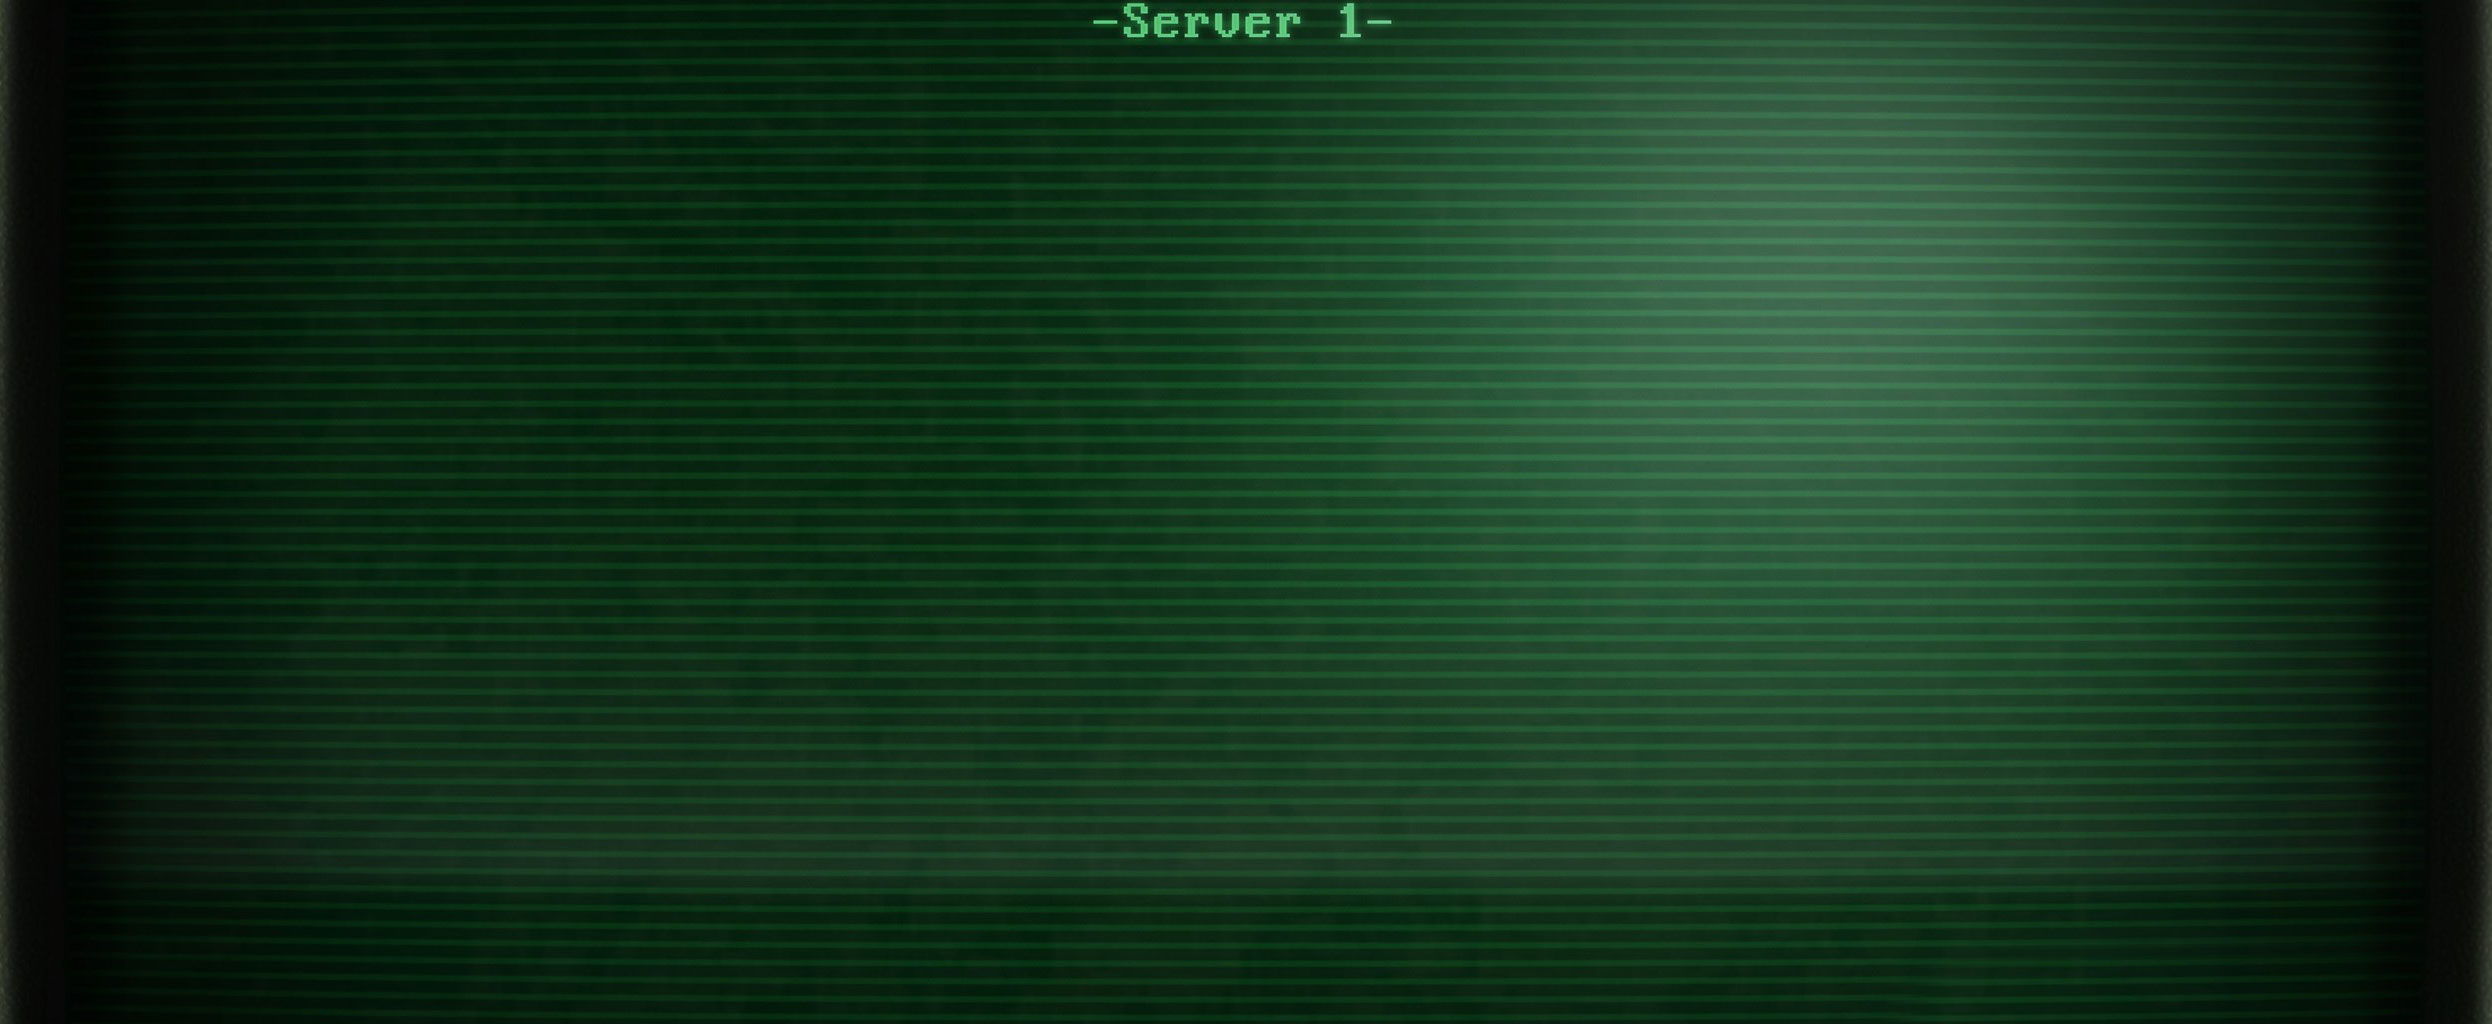
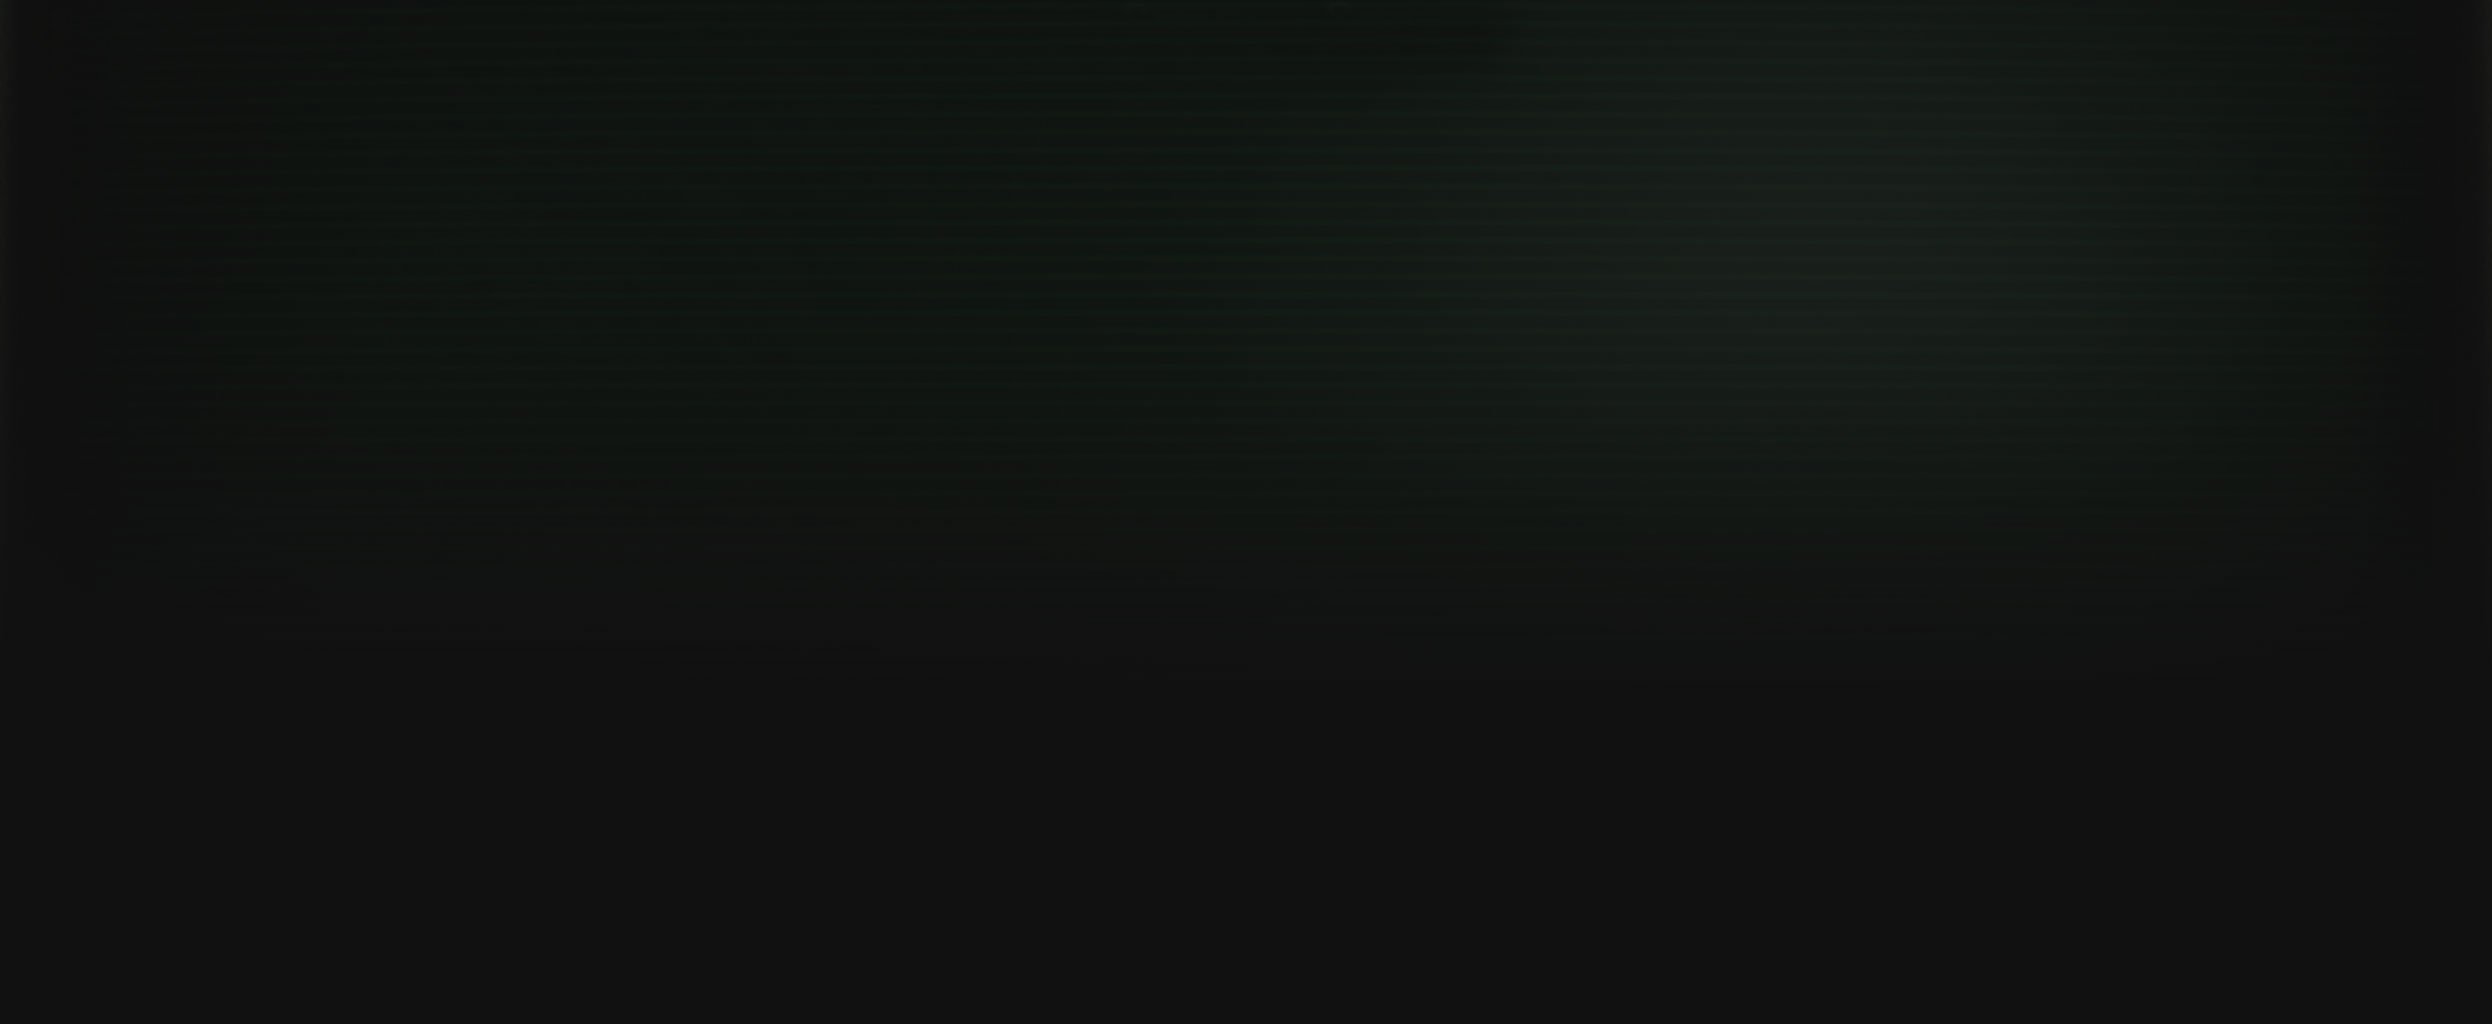
feat: add body background (Thursday, May 12, 2022 13:33:42)

diff --git a/cssMemSlider/style.css b/cssMemSlider/style.css
@@ -42,7 +42,9 @@ body {
    font-size: 1.25rem;
    font-weight: normal;
    line-height: 1.75rem;
-   background: var(--dark-color);
+   /*background: var(--dark-color);*/
+   background: url(./assets/img/back.jpg) center no-repeat;
+   background-size: cover;
 }
 
 .wrapper {
@@ -57,8 +59,6 @@ body {
    flex-wrap: wrap;
    justify-content: space-between;
    align-items: center;
-}
-.inputs {
 }
 .slider__input {
    display: none;
@@ -134,7 +134,6 @@ body {
    visibility: visible;
    color: var(--green);
    order: -1;
-   
 }
 .dots {
    display: flex;
